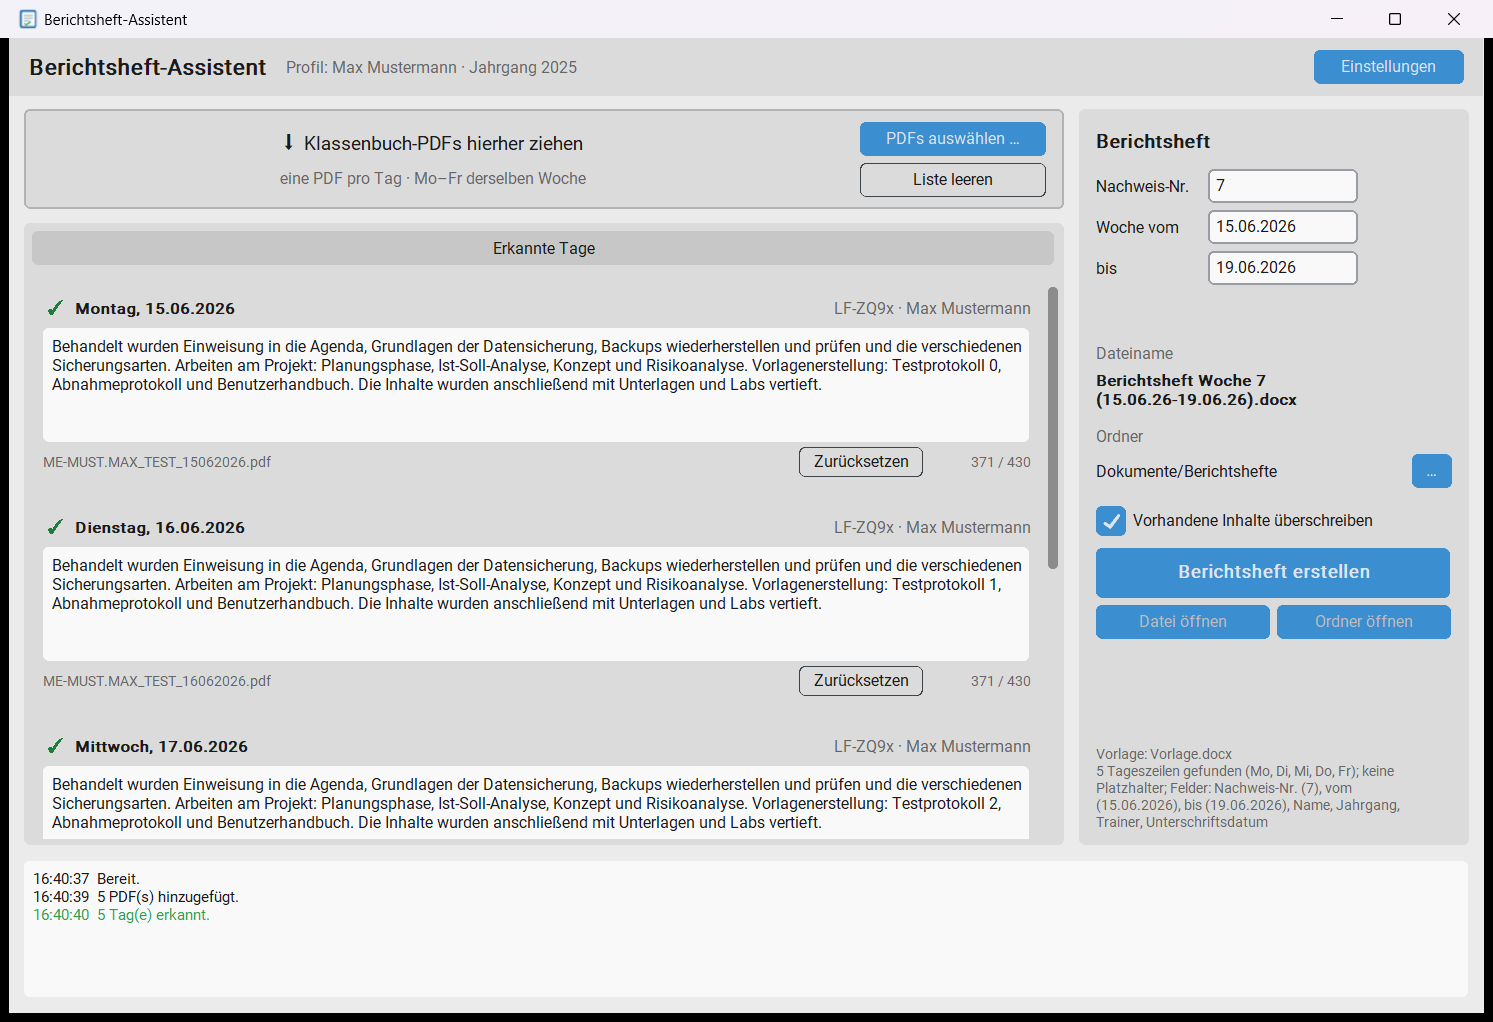
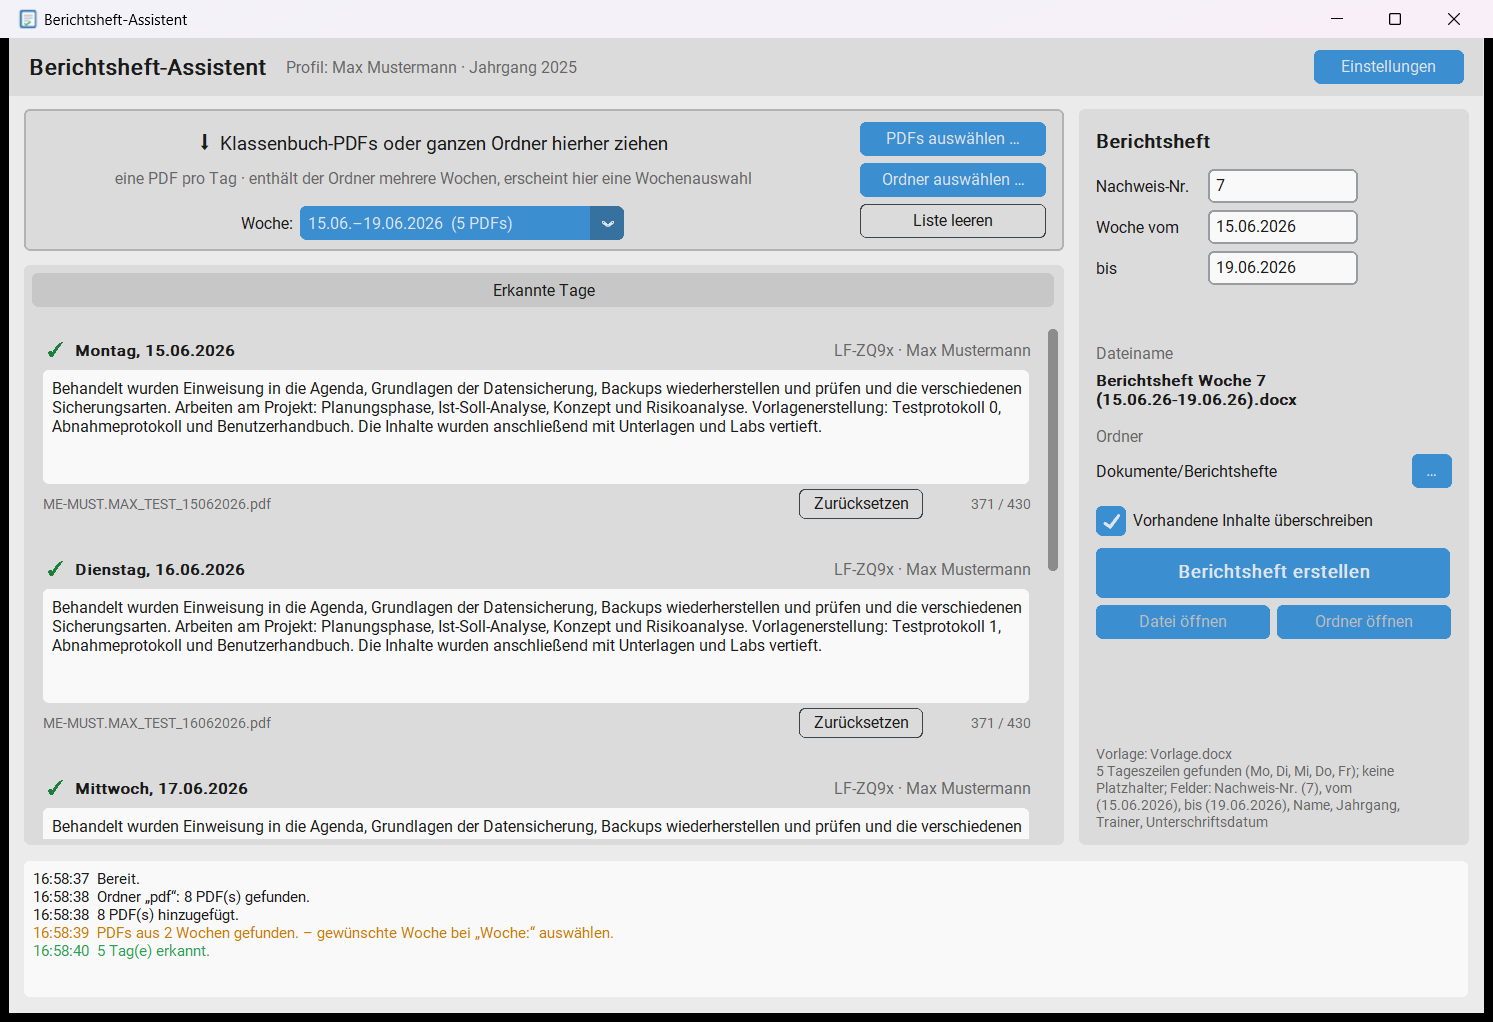
Ganzen Ordner hineinziehen + Wochenauswahl
- Ordner (inkl. Unterordner) per Drag & Drop oder "Ordner auswählen …"
- Bei PDFs aus mehreren Wochen erscheint ein Auswahlfeld "Woche:"
  (Standard: Woche mit den meisten PDFs), ohne die PDFs neu einzulesen
- Auch auf die Tagesliste kann gezogen werden

Changed region(s): [[0.0, 0.1213, 0.7086, 0.819], [0.0308, 0.8493, 0.4005, 0.9403]]

diff --git a/src/berichtsheft/gui/app.py b/src/berichtsheft/gui/app.py
@@ -2,6 +2,7 @@
 
 from __future__ import annotations
 
+import datetime as dt
 import os
 import re
 import subprocess
@@ -16,7 +17,16 @@ from ..core.config import AppConfig, ConfigError, load_config, save_config
 from ..core.docx_writer import TemplateInfo, analyze_template
 from ..core.logging_setup import get_logger, log_file_path
 from ..core.models import Severity, WeekPlan
-from ..core.service import HeaderValues, create_report, output_path, prepare_week, remember_week, suggest_header
+from ..core.service import (
+    HeaderValues,
+    create_report,
+    output_path,
+    parse_pdfs,
+    plan_for_week,
+    remember_week,
+    suggest_header,
+)
+from ..core.week import ParseResult, available_weeks
 from .settings import SettingsWindow
 from .setup_wizard import SetupWizard
 from .widgets import ERR_COLOR, MUTED, OK_COLOR, WARN_COLOR, DayCard, LogView, parse_user_date
@@ -69,6 +79,8 @@ class MainWindow(_Base):
         self.config_obj = self._load_config()
         self.pdfs: list[Path] = []
         self.plan: WeekPlan | None = None
+        self.parse_result: ParseResult | None = None
+        self.week_choices: dict[str, object] = {}
         self.template_info: TemplateInfo | None = None
         self.cards: dict[str, DayCard] = {}
         self.last_output: Path | None = None
@@ -108,16 +120,24 @@ class MainWindow(_Base):
         self.drop = ctk.CTkFrame(body, height=86, border_width=2, border_color=("gray70", "gray35"))
         self.drop.grid(row=0, column=0, sticky="ew")
         self.drop.grid_columnconfigure(0, weight=1)
-        dnd_text = "Klassenbuch-PDFs hierher ziehen" if self._dnd_ok() else "Klassenbuch-PDFs auswählen"
+        dnd_text = "Klassenbuch-PDFs oder ganzen Ordner hierher ziehen" if self._dnd_ok() else "Klassenbuch-PDFs oder Ordner auswählen"
         self.drop_label = ctk.CTkLabel(self.drop, text=f"⬇  {dnd_text}", font=ctk.CTkFont(size=15))
         self.drop_label.grid(row=0, column=0, pady=(14, 0))
-        self.drop_sub = ctk.CTkLabel(self.drop, text="eine PDF pro Tag · Mo–Fr derselben Woche", text_color=MUTED)
-        self.drop_sub.grid(row=1, column=0, pady=(0, 12))
+        self.drop_sub = ctk.CTkLabel(self.drop, text="eine PDF pro Tag · enthält der Ordner mehrere Wochen, erscheint hier eine Wochenauswahl",
+                                     text_color=MUTED)
+        self.drop_sub.grid(row=1, column=0, pady=(0, 8))
+        self.week_row = ctk.CTkFrame(self.drop, fg_color="transparent")
+        self.week_row.grid(row=2, column=0, pady=(0, 10))
+        ctk.CTkLabel(self.week_row, text="Woche:").grid(row=0, column=0, padx=(0, 6))
+        self.week_menu = ctk.CTkOptionMenu(self.week_row, values=["–"], command=self._choose_week, width=260)
+        self.week_menu.grid(row=0, column=1)
+        self.week_row.grid_remove()
         btns = ctk.CTkFrame(self.drop, fg_color="transparent")
-        btns.grid(row=0, column=1, rowspan=2, padx=14)
+        btns.grid(row=0, column=1, rowspan=3, padx=14, pady=6)
         ctk.CTkButton(btns, text="PDFs auswählen …", command=self.choose_pdfs, width=150).grid(row=0, column=0, pady=3)
+        ctk.CTkButton(btns, text="Ordner auswählen …", command=self.choose_folder, width=150).grid(row=1, column=0, pady=3)
         ctk.CTkButton(btns, text="Liste leeren", command=self.clear_pdfs, width=150, fg_color="transparent",
-                      border_width=1, text_color=("gray10", "gray90")).grid(row=1, column=0, pady=3)
+                      border_width=1, text_color=("gray10", "gray90")).grid(row=2, column=0, pady=3)
         if self._dnd_ok():
             for w in (self.drop, self.drop_label, self.drop_sub):
                 w.drop_target_register(DND_FILES)
@@ -127,6 +147,9 @@ class MainWindow(_Base):
         self.days_frame = ctk.CTkScrollableFrame(body, label_text="Erkannte Tage")
         self.days_frame.grid(row=1, column=0, sticky="nsew", pady=(10, 0))
         self.days_frame.grid_columnconfigure(0, weight=1)
+        if self._dnd_ok():  # auch auf die Tagesliste ziehen können
+            self.days_frame.drop_target_register(DND_FILES)
+            self.days_frame.dnd_bind("<<Drop>>", self._on_drop)
         self._empty_hint()
 
         # Rechte Spalte
@@ -260,11 +283,21 @@ class MainWindow(_Base):
         files = filedialog.askopenfilenames(title="Klassenbuch-PDFs auswählen", filetypes=[("PDF", "*.pdf")])
         self.add_paths([Path(f) for f in files])
 
+    def choose_folder(self) -> None:
+        d = filedialog.askdirectory(title="Ordner mit Klassenbuch-PDFs auswählen")
+        if d:
+            self.add_paths([Path(d)])
+
     def add_paths(self, paths: list[Path]) -> None:
         added = 0
         for p in paths:
             if p.is_dir():
-                candidates = sorted(p.glob("*.pdf"))
+                # ganzer Ordner inkl. Unterordnern
+                candidates = sorted(c for c in p.rglob("*") if c.is_file() and c.suffix.lower() == ".pdf")
+                if not candidates:
+                    self.log_view.add(f"Keine PDFs im Ordner „{p.name}“ gefunden.", "warnung")
+                else:
+                    self.log_view.add(f"Ordner „{p.name}“: {len(candidates)} PDF(s) gefunden.")
             else:
                 candidates = [p]
             for c in candidates:
@@ -281,6 +314,8 @@ class MainWindow(_Base):
     def clear_pdfs(self) -> None:
         self.pdfs.clear()
         self.plan = None
+        self.parse_result = None
+        self.week_row.grid_remove()
         self.cards.clear()
         self._empty_hint()
         for v in (self.nr_var, self.vom_var, self.bis_var):
@@ -290,15 +325,45 @@ class MainWindow(_Base):
         self.log_view.add("Liste geleert.")
 
     def _process(self) -> None:
+        """PDFs (einmal) lesen, Wochenauswahl füllen, dann die gewählte Woche aufbauen."""
         self.configure(cursor="watch")
         self.update_idletasks()
         try:
-            plan = prepare_week(self.pdfs, self.config_obj.profile)
+            self.parse_result = parse_pdfs(self.pdfs)
         finally:
             self.configure(cursor="")
+        weeks = available_weeks(self.parse_result.parsed)
+        self.week_choices = {
+            f"{m:%d.%m.}–{m + dt.timedelta(days=4):%d.%m.%Y}  ({n} PDF{'s' if n != 1 else ''})": m for m, n in weeks
+        }
+        if len(weeks) > 1:
+            self.week_menu.configure(values=list(self.week_choices))
+            self.week_row.grid()
+        else:
+            self.week_row.grid_remove()
+        self._show_week(None)
+
+    def _choose_week(self, label: str) -> None:
+        monday = self.week_choices.get(label)
+        if monday is not None:
+            self._show_week(monday)  # type: ignore[arg-type]
+
+    def _show_week(self, monday: dt.date | None) -> None:
+        assert self.parse_result is not None
+        plan = plan_for_week(self.parse_result, self.config_obj.profile, monday)
         self.plan = plan
-        for issue in plan.issues:
-            self.log_view.issue(issue)
+        if len(self.week_choices) > 1 and plan.monday is not None:
+            label = next((k for k, v in self.week_choices.items() if v == plan.monday), None)
+            if label:
+                self.week_menu.set(label)
+        if monday is None:
+            for issue in plan.issues:
+                if "Wochen gefunden" in issue.message:
+                    self.log_view.add(issue.message.split(" Verwendet")[0] + " – gewünschte Woche bei „Woche:“ auswählen.", "warnung")
+                else:
+                    self.log_view.issue(issue)
+        elif plan.monday is not None:
+            self.log_view.add(f"Woche gewechselt: {plan.monday:%d.%m.}–{plan.friday:%d.%m.%Y}")
         for w in self.days_frame.winfo_children():
             w.destroy()
         self.cards.clear()

diff --git a/src/berichtsheft/core/week.py b/src/berichtsheft/core/week.py
@@ -44,8 +44,20 @@ def _lesson_key(lesson: Lesson) -> tuple:
     return (lesson.number, tuple(lesson.topics))
 
 
-def build_week(parsed: list[ParsedPdf], settings: SummarizerSettings, base_issues: list[Issue] | None = None) -> WeekPlan:
-    """Tage Mo–Fr bilden, doppelte/fremde Tage melden und Texte erzeugen."""
+def available_weeks(parsed: list[ParsedPdf]) -> list[tuple[dt.date, int]]:
+    """Alle Wochen (Montag, Anzahl PDFs) in den PDFs, neueste zuerst. Wochenenden zählen nicht."""
+    weeks = Counter(monday_of(p.date) for p in parsed if p.date.weekday() < 5)
+    return sorted(weeks.items(), key=lambda kv: kv[0], reverse=True)
+
+
+def build_week(parsed: list[ParsedPdf], settings: SummarizerSettings, base_issues: list[Issue] | None = None,
+               monday: dt.date | None = None) -> WeekPlan:
+    """Tage Mo–Fr bilden, doppelte/fremde Tage melden und Texte erzeugen.
+
+    ``monday`` wählt bei PDFs aus mehreren Wochen die gewünschte Woche aus
+    (z. B. wenn ein ganzer Ordner hineingezogen wurde). Ohne Angabe wird die
+    Woche mit den meisten PDFs genommen, bei Gleichstand die neueste.
+    """
     issues: list[Issue] = list(base_issues or [])
     if not parsed:
         return WeekPlan(None, {}, issues)
@@ -60,20 +72,18 @@ def build_week(parsed: list[ParsedPdf], settings: SummarizerSettings, base_issue
     if not workdays:
         return WeekPlan(None, {}, issues)
 
-    # Mehrere Wochen? -> die Woche mit den meisten PDFs nehmen
+    # Mehrere Wochen? -> gewählte Woche, sonst die mit den meisten PDFs (bei Gleichstand die neueste)
     weeks = Counter(monday_of(p.date) for p in workdays)
-    monday, _ = max(weeks.items(), key=lambda kv: (kv[1], kv[0]))
+    if monday is None or monday not in weeks:
+        monday, _ = max(weeks.items(), key=lambda kv: (kv[1], kv[0]))
     if len(weeks) > 1:
         others = sorted(w for w in weeks if w != monday)
         names = ", ".join(f"{w:%d.%m.}–{w + dt.timedelta(days=4):%d.%m.%Y}" for w in others)
         issues.append(Issue(
             Severity.WARNING,
-            f"PDFs aus mehreren Wochen gefunden. Verwendet wird {monday:%d.%m.}–{monday + dt.timedelta(days=4):%d.%m.%Y}; "
-            f"ignoriert: {names}",
+            f"PDFs aus {len(weeks)} Wochen gefunden. Verwendet wird {monday:%d.%m.}–{monday + dt.timedelta(days=4):%d.%m.%Y}; "
+            f"nicht verwendet: {names}",
         ))
-        for p in workdays:
-            if monday_of(p.date) != monday:
-                issues.append(Issue(Severity.WARNING, f"gehört zu einer anderen Woche ({p.date:%d.%m.%Y})", p.path.name))
     in_week = [p for p in workdays if monday_of(p.date) == monday]
 
     # Mehrere PDFs pro Tag zusammenführen

diff --git a/tests/test_week.py b/tests/test_week.py
@@ -47,7 +47,7 @@ def test_other_week_is_warned_and_ignored(tmp_path, week_pdfs, settings):
     other = fixtures.make_klassenbuch_pdf(tmp_path / "alt.pdf", dt.date(2026, 6, 8), [fixtures.FakeLesson(["Alt"])])
     plan = plan_from_paths([*week_pdfs, other], settings)
     assert plan.monday == dt.date(2026, 6, 15)
-    assert any("mehreren Wochen" in i.message for i in plan.issues)
+    assert any("2 Wochen gefunden" in i.message for i in plan.issues)
     assert "Alt" not in plan.days["Mo"].text
 
 
@@ -68,3 +68,17 @@ def test_bad_pdf_does_not_stop_others(tmp_path, week_pdfs, settings):
 
 def test_monday_of():
     assert monday_of(dt.date(2026, 6, 19)) == dt.date(2026, 6, 15)
+
+
+def test_choose_week_from_folder(tmp_path, settings):
+    from berichtsheft.core.week import available_weeks, build_week, parse_many
+    fixtures.make_week(tmp_path / "kw25", dt.date(2026, 6, 15))
+    fixtures.make_week(tmp_path / "kw26", dt.date(2026, 6, 22), days=3)
+    res = parse_many(sorted(tmp_path.rglob("*.pdf")))
+    weeks = available_weeks(res.parsed)
+    assert weeks == [(dt.date(2026, 6, 22), 3), (dt.date(2026, 6, 15), 5)]   # neueste zuerst
+    default = build_week(res.parsed, settings, res.issues)
+    assert default.monday == dt.date(2026, 6, 15)                            # meiste PDFs
+    chosen = build_week(res.parsed, settings, res.issues, dt.date(2026, 6, 22))
+    assert chosen.monday == dt.date(2026, 6, 22) and list(chosen.days) == ["Mo", "Di", "Mi"]
+    assert any("2 Wochen" in i.message for i in chosen.issues)

diff --git a/tools/gui_smoke.py b/tools/gui_smoke.py
@@ -63,7 +63,10 @@ def main() -> int:
     pdf_dir = Path(sys.argv[2]) if len(sys.argv) > 2 else tmp / "pdf"
     template = Path(sys.argv[3]) if len(sys.argv) > 3 else tmp / "Vorlage.docx"
     if len(sys.argv) <= 2:
-        fixtures.make_week(pdf_dir)
+        # Ordner mit zwei Wochen in Unterordnern (testet Ordner-Drop + Wochenauswahl)
+        import datetime as dt
+        fixtures.make_week(pdf_dir / "KW25", dt.date(2026, 6, 15))
+        fixtures.make_week(pdf_dir / "KW26", dt.date(2026, 6, 22), days=3)
     if len(sys.argv) <= 3:
         fixtures.make_template(template)
 
@@ -93,7 +96,7 @@ def main() -> int:
 
     def step1() -> None:
         shot("01_leer")
-        app.add_paths(sorted(pdf_dir.glob("*.pdf")))
+        app.add_paths([pdf_dir])  # ganzer Ordner, wie beim Hineinziehen
         app.after(600, step2)
 
     def step2() -> None:
@@ -103,6 +106,10 @@ def main() -> int:
 
     def step3() -> None:
         shot("03_erstellt")
+        if len(app.week_choices) > 1:  # Woche umschalten testen
+            other = [k for k, v in app.week_choices.items() if v != app.plan.monday][0]
+            app._choose_week(other)
+            results.append(f"Woche gewechselt -> {app.plan.monday} ({len(app.plan.days)} Tage)")
         app.open_settings()
         app.after(900, step4)
 

diff --git a/src/berichtsheft/core/service.py b/src/berichtsheft/core/service.py
@@ -9,11 +9,20 @@ from pathlib import Path
 from .config import Profile
 from .docx_writer import DayContent, ReportData, TemplateInfo, WriteOptions, analyze_template, build_filename, fill_template
 from .models import Issue, Severity, WeekPlan
-from .week import plan_from_paths
+from .week import ParseResult, build_week, parse_many, plan_from_paths
 
 
 def prepare_week(pdf_paths: list[Path], profile: Profile) -> WeekPlan:
     return plan_from_paths(pdf_paths, profile.summarizer_settings())
+
+
+def parse_pdfs(pdf_paths: list[Path]) -> ParseResult:
+    """Nur lesen (einmal), danach kann mit ``plan_for_week`` beliebig oft die Woche gewechselt werden."""
+    return parse_many(sorted(pdf_paths))
+
+
+def plan_for_week(result: ParseResult, profile: Profile, monday: dt.date | None = None) -> WeekPlan:
+    return build_week(result.parsed, profile.summarizer_settings(), result.issues, monday)
 
 
 @dataclass

diff --git a/README.md b/README.md
@@ -3,7 +3,7 @@
 Eine Windows-App für Umschüler:innen und Azubis: Sie macht aus den **Klassenbuch-PDFs** (GFN-„Themendokumentation“) in wenigen Klicks ein fertiges **Berichtsheft (Word)**.
 
 1. Beim ersten Start persönliche Daten eintragen und die eigene Blanko-Vorlage hochladen
-2. Jede Woche die PDFs ins Fenster ziehen
+2. Jede Woche die PDFs oder einfach den ganzen Klassenbuch-Ordner ins Fenster ziehen
 3. Vorschau prüfen, Texte bei Bedarf anpassen, auf **„Berichtsheft erstellen“** klicken
 
 ![Hauptfenster](docs/screenshots/hauptfenster.png)
@@ -32,7 +32,8 @@ Beim ersten Start öffnet sich der **Einrichtungs-Assistent**:
 
 ### Jede Woche
 
-1. Die Klassenbuch-PDFs der Woche (eine pro Tag) in das obere Feld ziehen **oder** auf „PDFs auswählen …“ klicken. Ganze Ordner gehen auch.
+1. Die Klassenbuch-PDFs der Woche (eine pro Tag) in das obere Feld ziehen **oder** gleich den **ganzen Ordner** hineinziehen, Unterordner inklusive. Alternativ: „PDFs auswählen …“ bzw. „Ordner auswählen …“.
+   Liegen im Ordner PDFs aus mehreren Wochen, erscheint ein Feld **„Woche:“**, in dem du die gewünschte Woche auswählst. Vorausgewählt ist die Woche mit den meisten PDFs.
 2. Für jeden erkannten Tag siehst du Datum, Lernfeld, Dozent:in und den Status (✓ / ⚠).
 3. Den Text in den Feldern kannst du direkt ändern. Der Zähler zeigt die Zeichen, mit „Zurücksetzen“ kommt der generierte Text zurück.
 4. Nachweis-Nr. und Zeitraum sind schon ausgefüllt und lassen sich ändern. Darunter siehst du den Dateinamen, z. B.
